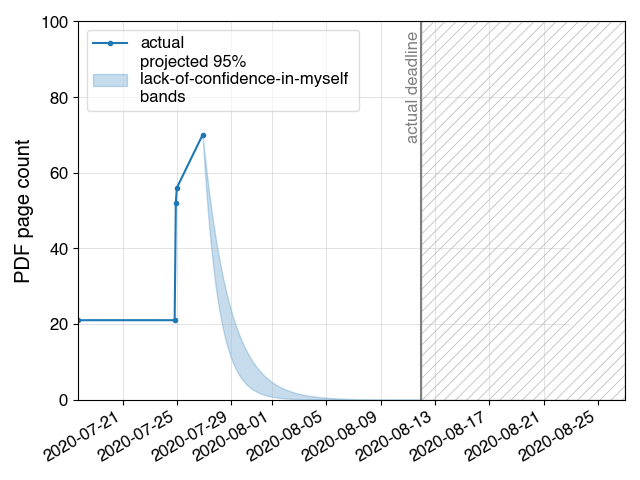
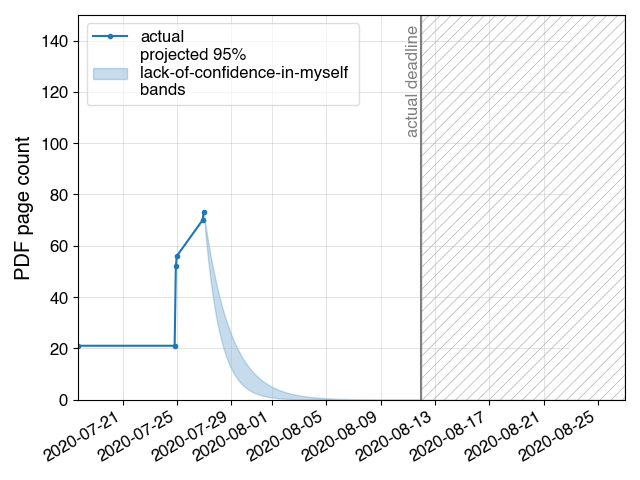
add triggers

diff --git a/tables/triggers.tex b/tables/triggers.tex
@@ -1,0 +1,107 @@
+\begin{table}[h!]
+\label{tab:sstrigslow}
+ \begin{center}  
+\caption{Summary of the signal triggers for the SUSY analysis with low lepton $\pt$}
+\resizebox{0.99\textwidth}{!}{
+ \begin{tabular}{|c|c|}\hline 
+ \multicolumn{2}{|c|}{2016} \\\hline
+Final state        & Trigger Name                                                   \\ \hline
+Same sign $\mu\mu$ & HLT\_DoubleMu8\_Mass8\_PFHT300                         \\
+Same sign $ee$     & HLT\_DoubleEle8\_CaloIdM\_TrackIdM\_Mass8\_PFHT300     \\
+Same sign $e\mu$   & HLT\_Mu8\_Ele8\_CaloIdM\_TrackIdM\_Mass8\_PFHT300      \\
+\hline\hline
+ \multicolumn{2}{|c|}{2017} \\\hline
+Final state        & Trigger Name                                                   \\ \hline
+Same sign $\mu\mu$ & HLT\_DoubleMu4\_Mass8\_DZ\_PFHT350                     \\
+Same sign $ee$     & HLT\_DoubleEle8\_CaloIdM\_TrackIdM\_DZ\_Mass8\_PFHT350 \\
+Same sign $e\mu$   & HLT\_Mu8\_Ele8\_CaloIdM\_TrackIdM\_Mass8\_PFHT350\_DZ  \\
+\hline\hline
+ \multicolumn{2}{|c|}{2018} \\\hline
+Final state        & Trigger Name                                                   \\ \hline
+Same sign $\mu\mu$ & HLT\_DoubleMu4\_Mass8/3p8\_DZ\_PFHT350                 \\
+Same sign $ee$     & HLT\_DoubleEle8\_CaloIdM\_TrackIdM\_DZ\_Mass8\_PFHT350 \\
+Same sign $e\mu$   & HLT\_Mu8\_Ele8\_CaloIdM\_TrackIdM\_Mass8\_PFHT350\_DZ  \\
+\hline
+\end{tabular}
+ }
+\end{center}
+\end{table}
+
+
+\begin{table}[h!]
+\label{tab:sstrigshigh}
+\begin{center}  
+\caption{Summary of the signal triggers for the SUSY analysis with high lepton $\pt$}
+\resizebox{0.99\textwidth}{!}{
+ \begin{tabular}{|c|c|}\hline 
+ \multicolumn{2}{|c|}{2016} \\\hline
+Final state        & Trigger Name                                                          \\ \hline
+Same sign $\mu\mu$ & HLT\_(Tk)Mu17\_TrkIsoVVL\_(Tk)Mu8\_TrkIsoVVL(\_DZ)            \\
+Same sign $ee$     & HLT\_Ele23\_Ele12\_CaloIdL\_TrackIdL\_IsoVL\_DZ               \\ 
+Same sign $e\mu$   & HLT\_Mu23/8\_TrkIsoVVL\_Ele12/23\_CaloIdL\_TrackIdL\_IsoVL\_DZ\\
+\hline\hline
+ \multicolumn{2}{|c|}{2017} \\\hline
+Final state        & Trigger Name                                                          \\ \hline
+Same sign $\mu\mu$ & HLT\_Mu17\_TrkIsoVVL\_Mu8\_TrkIsoVVL\_DZ(\_Mass3p8)           \\
+Same sign $ee$     & HLT\_Ele23\_Ele12\_CaloIdL\_TrackIdL\_IsoVL                   \\ 
+Same sign $e\mu$   & HLT\_Mu23/8\_TrkIsoVVL\_Ele12/23\_CaloIdL\_TrackIdL\_IsoVL\_DZ\\
+\hline\hline
+ \multicolumn{2}{|c|}{2018} \\\hline
+Final state        & Trigger Name                                                          \\ \hline
+Same sign $\mu\mu$ & HLT\_Mu17\_TrkIsoVVL\_Mu8\_TrkIsoVVL\_DZ\_Mass3p8             \\
+Same sign $ee$     & HLT\_Ele23\_Ele12\_CaloIdL\_TrackIdL\_IsoVL                   \\ 
+Same sign $e\mu$   & HLT\_Mu23/8\_TrkIsoVVL\_Ele12/23\_CaloIdL\_TrackIdL\_IsoVL\_DZ\\
+\hline
+\end{tabular}
+ }
+\end{center}
+\end{table}
+
+
+\begin{table}[h!]
+\label{tab:fttrigs}
+ \begin{center}  
+\caption{Summary of the signal triggers for the \smft analysis}
+\resizebox{0.99\textwidth}{!}{
+ \begin{tabular}{|c|c|}\hline 
+ \multicolumn{2}{|c|}{2016} \\\hline
+Final state        & Trigger Name                                                   \\ \hline
+Same sign $\mu\mu$ & HLT\_DoubleMu8\_Mass8\_PFHT300                         \\
+Same sign $ee$     & HLT\_DoubleEle8\_CaloIdM\_TrackIdM\_Mass8\_PFHT300     \\
+Same sign $e\mu$   & HLT\_Mu8\_Ele8\_CaloIdM\_TrackIdM\_Mass8\_PFHT300      \\
+\hline\hline
+ \multicolumn{2}{|c|}{2017} \\\hline
+Final state        & Trigger Name                                                   \\ \hline
+Same sign $\mu\mu$ & HLT\_Mu17\_TrkIsoVVL\_Mu8\_TrkIsoVVL\_DZ(\_Mass8)             \\
+Same sign $ee$     & HLT\_Ele23\_Ele12\_CaloIdL\_TrackIdL\_IsoVL                   \\ 
+Same sign $e\mu$   & HLT\_Mu23/8\_TrkIsoVVL\_Ele12/23\_CaloIdL\_TrackIdL\_IsoVL\_DZ\\
+\hline\hline
+ \multicolumn{2}{|c|}{2018} \\\hline
+Final state        & Trigger Name                                                   \\ \hline
+Same sign $\mu\mu$ & HLT\_Mu17\_TrkIsoVVL\_Mu8\_TrkIsoVVL\_DZ\_Mass3p8             \\
+Same sign $ee$     & HLT\_Ele23\_Ele12\_CaloIdL\_TrackIdL\_IsoVL                   \\ 
+Same sign $e\mu$   & HLT\_Mu23/8\_TrkIsoVVL\_Ele12/23\_CaloIdL\_TrackIdL\_IsoVL\_DZ\\
+\hline
+\end{tabular}
+ }
+\end{center}
+\end{table}
+
+
+
+\begin{table}[h!]
+\label{tab:frtrigs}
+\caption{Summary of the control triggers used for the fake rate measurement}
+\begin{center}
+% \resizebox*{1\textwidth}{!}{
+\begin{tabular}{|c|c|}\hline
+Final state                                    & Trigger Name \\\hline
+$\mu$ (isolated trigger leg)     & HLT\_Mu8/17\_TrkIsoVVL\\
+$\mu$ (non isolated trigger leg) & HLT\_Mu8/17\\
+$e$ (isolated trigger leg)       & HLT\_Ele12/23\_CaloIdL\_TrackIdL\_IsoVL\_PFJet30\\
+$e$ (non isolated trigger leg)   & HLT\_Ele8/17\_CaloIdM\_TrackIdM\_PFJet30\\
+\hline
+\end{tabular}
+% }
+\end{center}
+\end{table}

diff --git a/tex/chapter3.tex b/tex/chapter3.tex
@@ -202,7 +202,7 @@ as isolated if the following boolean condition is satisfied:
   \miniiso < I_1 \wedge ( \ptratio > I_2 \vee \ptrel > I_3 )
 \end{equation}
 where $I_i$ threshold values depend on the lepton flavor and PU conditions
-of the flavor of the lepton. These values are tabulated in \ref{tab:isoWPs}.
+of the flavor of the lepton. These values are tabulated in Table~\ref{tab:isoWPs}.
 
 \begin{table}[h]
     \label{tab:isoWPs}
@@ -252,15 +252,42 @@ large tail extending beyond the W mass.
 \end{figure}
 
 \section{Trigger}
-\mytodo{todo}
-trigger plot
+\mytodo{todo, trigger plot}
+
+Clearly before one can analyze events, one must have collected them with the detector first.
+Triggers are meant to identify and save interesting events in data while making sure to not to overwhelm
+the readout hardware, reconstruction software, and storage used by CMS. 
+Same-sign searches make use of dilepton triggers
+which require at least two leptons at trigger level of a given $\pt$, usually along with some
+isolation quantities or $\HT$. For a given trigger rate, 
+the more stringent the requirements on isolation or $\HT$, the
+lower the thresholds on lepton $\pt$.
+
+In the SUSY analysis, based on trigger thresholds, 
+we only consider muons (electrons) with \pt of at least 10 (15) \GeV.
+For events with lepton $\pt < 25\GeV$ for both SS leptons, the set of signal triggers, depending on year
+and SS lepton pair flavor, is given in Table~\ref{tab:sstrigslow}, otherwise, the signal triggers in 
+Table~\ref{tab:sstrigshigh} are used.
+
+The \smft analysis considers muons and electrons with \pt of at least 20 \GeV. As a result,
+the modified signal trigger strategy summarized in Table~\ref{tab:fttrigs} is used.
+
+A set of single lepton triggers, listed in Table~\ref{tab:frtrigs},
+is used for the estimation of the fake rate, which
+will be discussed in the following chapter.
+
+Triggers are required for all events, data and simulation, and residual differences are corrected
+via trigger scale factors.
+\mytodo{trigger scale factors, plots}
+
+\input{tables/triggers}
 
 \section{Baseline selections}
 \mytodo{todo more details?}
 
 With the objects in place, we can now discuss the baseline selections used for the 
 inclusive SUSY analysis and the more restricted \smft analysis.
-As the name of this thesis suggests, both require the presence of at least
+As the title of this thesis suggests, both require the presence of at least
 two leptons (electrons or muons) with the same charge. 
 Appropriate triggers are required for data and all simulation.
 Subsequent
@@ -356,11 +383,11 @@ the most performant variables and retraining until the performance started to su
 Following the SUSY analysis baseline selection, we define 
 six exclusive categories depending on the kinematics of event and the leptons:
 \begin{itemize}
-\item High-High SS pair, significant \ptmiss (HH): exactly 2 leptons, both with $\pt>25 \GeV$, and $\ptmiss>50 \GeV$;
-\item High-Low SS pair, significant \ptmiss (HL): exactly 2 leptons, one with $\pt>25 \GeV$, one with $\pt<25 \GeV$, and $\ptmiss>50 \GeV$;
-\item Low-Low SS pair, significant \ptmiss (LL): exactly 2 leptons, both with $\pt<25 \GeV$ and $\ptmiss>50 \GeV$;
+\item High-High SS pair (HH): exactly 2 leptons, both with $\pt>25 \GeV$, and $\ptmiss>50 \GeV$;
+\item High-Low SS pair (HL): exactly 2 leptons, one with $\pt>25 \GeV$, one with $\pt<25 \GeV$, and $\ptmiss>50 \GeV$;
+\item Low-Low SS pair (LL): exactly 2 leptons, both with $\pt<25 \GeV$ and $\ptmiss>50 \GeV$;
 \item Low \ptmiss (LM): exactly 2 leptons, both with $\pt>25 \GeV$, and $\ptmiss<50 \GeV$; and
-\item Multilepton with an on-shell Z boson (on-\PZ ML): $\geq$3 leptons, at least one with $\pt>25 \GeV$, $\ptmiss>50 \GeV$, $\geq$ \PZ boson candidate formed by a pair of opposite-sign (OS), same-flavor leptons with $76 < m_{\ell\ell}< 106 \GeV$.
+\item Multilepton with an on-shell Z boson (on-\PZ ML): $\geq$3 leptons, at least one with $\pt>25 \GeV$, $\ptmiss>50 \GeV$, $\geq 1$ \PZ boson candidate formed by a pair of OS, same-flavor leptons with $76 < m_{\ell\ell}< 106 \GeV$.
 \item Multilepton without an on-shell Z boson (off-\PZ ML): same as on-\PZ ML but without a \PZ boson candidate.
 \end{itemize}
 

diff --git a/thesis.tex b/thesis.tex
@@ -80,7 +80,7 @@
 \newcommand{\MTmin}{\ensuremath{\mT^{\text{min}}}\xspace}
 \newcommand{\mtmin}{\MTmin}
 
-\newcommand{\NA}{-{}-}
+\newcommand{\NA}{--}
 
 \newcommand{\gluino}{\ensuremath{\tilde{g}}}
 \newcommand{\susyq}{\ensuremath{\tilde{q}}}
@@ -114,9 +114,9 @@
 
 % \def\dsp{\def\baselinestretch{1.0}\large\normalsize} % FIXME remove this line when compiling final thesis
 % https://stackoverflow.com/questions/1465665/passing-command-line-arguments-to-latex-document/1466610#1466610
-% \ifdefined\myownflag
+\ifdefined\myownflag
     \def\dsp{\def\baselinestretch{1.0}\large\normalsize}
-% \fi
+\fi
 % uncomment ifdefined, fi lines to go back to double space
 
 %---Set Margins ------------------------------------------------------
@@ -168,21 +168,21 @@
 \renewcommand{\headrulewidth}{0pt}
 \renewcommand{\footrulewidth}{0pt}}
 
-% \input{tex/outline}
+\input{tex/outline}
 
-% \input{tex/chapter1} % Introduction
-% \input{tex/chapter2} % Same-sign dilepton final state
+\input{tex/chapter1} % Introduction
+\input{tex/chapter2} % Same-sign dilepton final state
 \input{tex/chapter3} % Objects and variables
-% \input{tex/chapter4} % Background estimation
-% \input{tex/chapter5} % Results and interpretations
-% \input{tex/chapter6} % Summary and conclusions
+\input{tex/chapter4} % Background estimation
+\input{tex/chapter5} % Results and interpretations
+\input{tex/chapter6} % Summary and conclusions
 
 %=== Appendix ============================================
 \appendix
 
 \dsp
 
-% \input{tex/toy_statistics}
+\input{tex/toy_statistics}
 
 \end{mainmatter}
 

diff --git a/tables/ssslimyields.tex b/tables/ssslimyields.tex
@@ -1,7 +1,8 @@
 \begin{table*}[!hbtp]
 \centering
 \label{tab:slimyields}
-\begin{scriptsizetabular}{ccc|ccc|ccc}
+\resizebox{0.60\textwidth}{!}{
+\begin{tabular}{ccc|ccc|ccc}
 \hline
 \multicolumn{3}{c|}{HH regions}    &    \multicolumn{3}{c|}{HL regions}    &    \multicolumn{3}{c}{LM regions} \\ \hline
  SR    &    Expected SM    &    Obs.    &
@@ -71,7 +72,8 @@
 61   &    $1.88\pm0.40 $    &   5   &       &       &      &   21   &    $1.20\pm0.32 $    &    2 \\
 62   &    $1.35\pm0.56 $    &   0   &       &       &      &      &      &   \\
 \hline
-\end{scriptsizetabular}
+\end{tabular}
+}
 \caption{
 Expected background event yields, total uncertainties, and observed event yields in the SRs used in this search.
 }

diff --git a/scripts/plot_progress.py b/scripts/plot_progress.py
@@ -36,7 +36,7 @@ df = df.set_index("date")["2020":].reset_index()
 
 fig,ax = plt.subplots()
 ax.plot(df["date"],df["pages"],label="actual", marker=".")
-ax.set_ylim([0.,100.])
+ax.set_ylim([0.,150.])
 ax.set_ylabel("PDF page count")
 
 deadline = datetime.date(2020,8,12)
